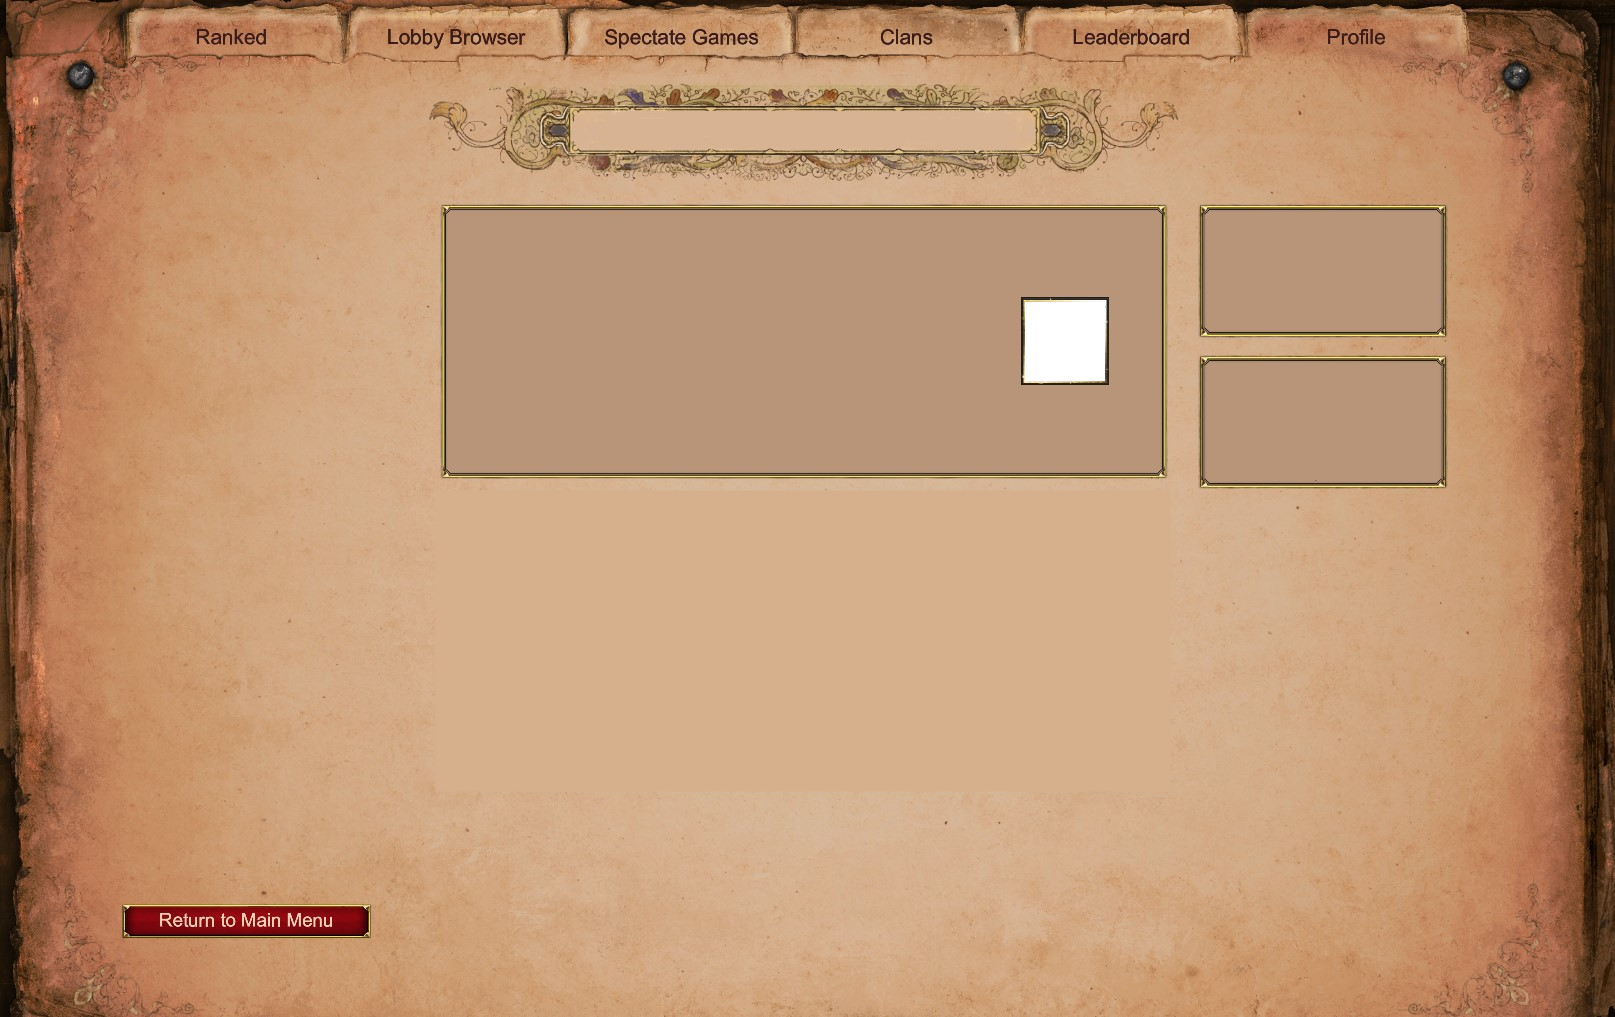
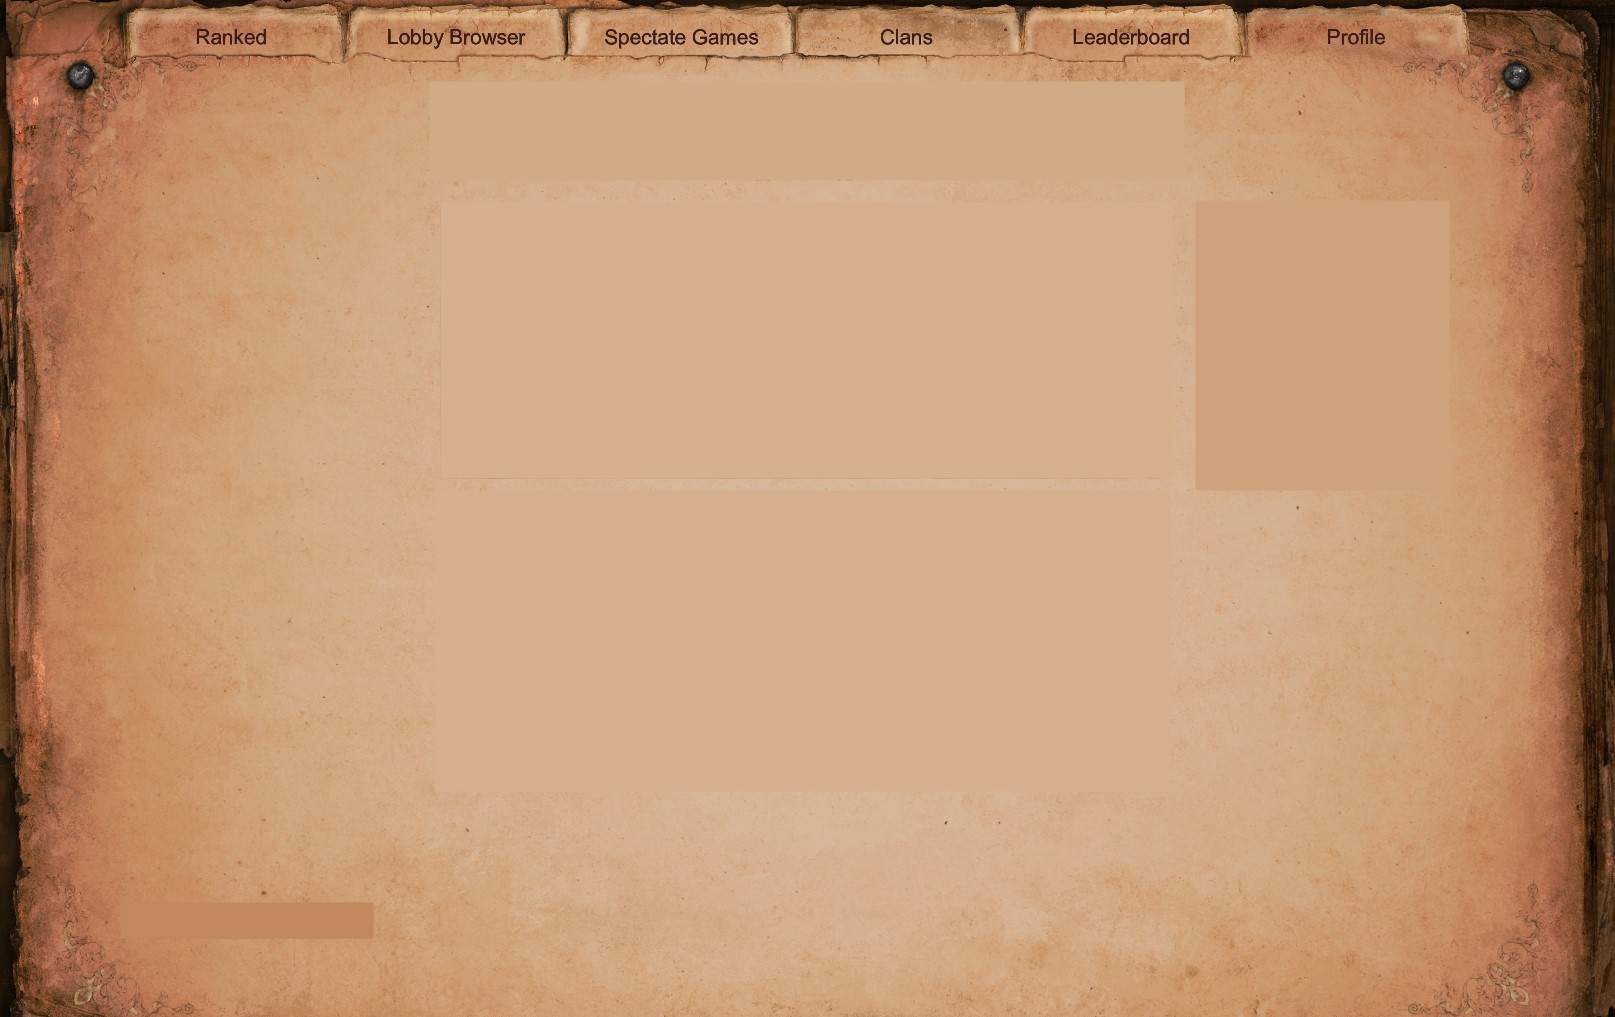
Added Asset images and player View

Changed region(s): [[0.2477, 0.061, 0.8978, 0.4877], [0.0619, 0.884, 0.2477, 0.9449]]

diff --git a/app/assets/stylesheets/visitors/_players.scss b/app/assets/stylesheets/visitors/_players.scss
@@ -6,3 +6,106 @@
 	min-width: 100%;
 	min-height: 100%;
 }
+.wrapper {
+	padding-top: 120px;
+    display: grid;
+    grid-template-columns: 15% 70% 15%;
+    color: #444;
+}
+.a {
+	background-image: url(asset_path('name-profile-aoe2de.png'));
+	grid-column: 2 / 3;
+	grid-row: 1;
+	height: 86px;
+	background-repeat: no-repeat;
+	background-position: center;
+	text-align: center;
+	font-size: 250%;
+	p {
+		padding-top: 5px;
+	}
+}
+.b {
+	position: relative;
+	background-image: url(asset_path('text-profile-aoe2de.png'));
+	grid-column: 2 / 3 ;
+	grid-row: 2;
+	background-repeat: no-repeat;
+	background-position: center;
+	height: 280px;
+	width: auto;
+	margin-top: 4em;
+	p {
+		white-space: nowrap;
+		overflow: hidden;
+		text-overflow: ellipsis;
+		margin: 1em 2em;
+		color: black;
+		font-size: 120%;
+		text-align: left;
+		display: block;
+	}
+	.header-image {
+		position: absolute;
+		padding: 40px;
+	    background-size: cover;
+	    background-position: center;
+	    top: 100px;
+	    right: 89px;
+	}
+}
+.c {
+	grid-column: 3 / 4 ;
+	grid-row: 2;
+	position: relative;
+	padding: 2em 3em;
+	.player-category-box {
+		position: absolute;
+		background-image: url(asset_path('small-box-profile-aoe2de.png'));
+		background-repeat: no-repeat;
+		background-position: center;
+		background-size: cover;
+		height: 110%;
+		width: auto;
+		padding-top: 120px;
+		.category-image {
+
+			padding: 100px;
+		    background-size: cover;
+		    background-position: center;
+		}
+		h3 {
+			position: absolute;
+			right: 40%;
+			bottom: 0;
+		}
+	}
+}
+.d {
+	grid-column: 1 / 2 ;
+	grid-row: 4;
+	a {
+		position: absolute;
+		text-decoration: none;
+		color: white;
+		font-size: 120%;
+		background-image: url(asset_path('button-profile-aoe2de.png'));
+		background-repeat: no-repeat;
+		background-position: center;
+		padding: 18px 125px;
+		bottom: 7%;
+		left: 8%;
+	}&:hover{
+		position: absolute;
+		bottom: 7%;
+		left: 8%;
+		transform: scale(1.1);
+	}
+}
+
+
+
+
+
+
+

diff --git a/app/controllers/admins/players_controller.rb b/app/controllers/admins/players_controller.rb
@@ -16,6 +16,7 @@
     def edit
       @matches = Match.all.where(player_1_id: @player.id).or(Match.all.where(player_2_id: @player.id ))
       @new_match = @player.player_1_matches.build(player_1: @player, category: @player.category) 
+      @matches_won = Match.where(player_1: @player).where(winner: @player).or(Match.where(player_2: @player).where(winner: @player))
     end
 
     # POST /players

diff --git a/app/controllers/visitors/players_controller.rb b/app/controllers/visitors/players_controller.rb
@@ -2,6 +2,8 @@ module Visitors
 	class PlayersController < VisitorsController
 	  def show
 	  	@player = Player.find(params[:id])
+	  	@total_matches = Match.where(player_1: @player).or(Match.where(player_1: @player))
+  		@matches_won = Match.where(player_1: @player).where(winner: @player).or(Match.where(player_2: @player).where(winner: @player))	
 	  end
 	end
 end
